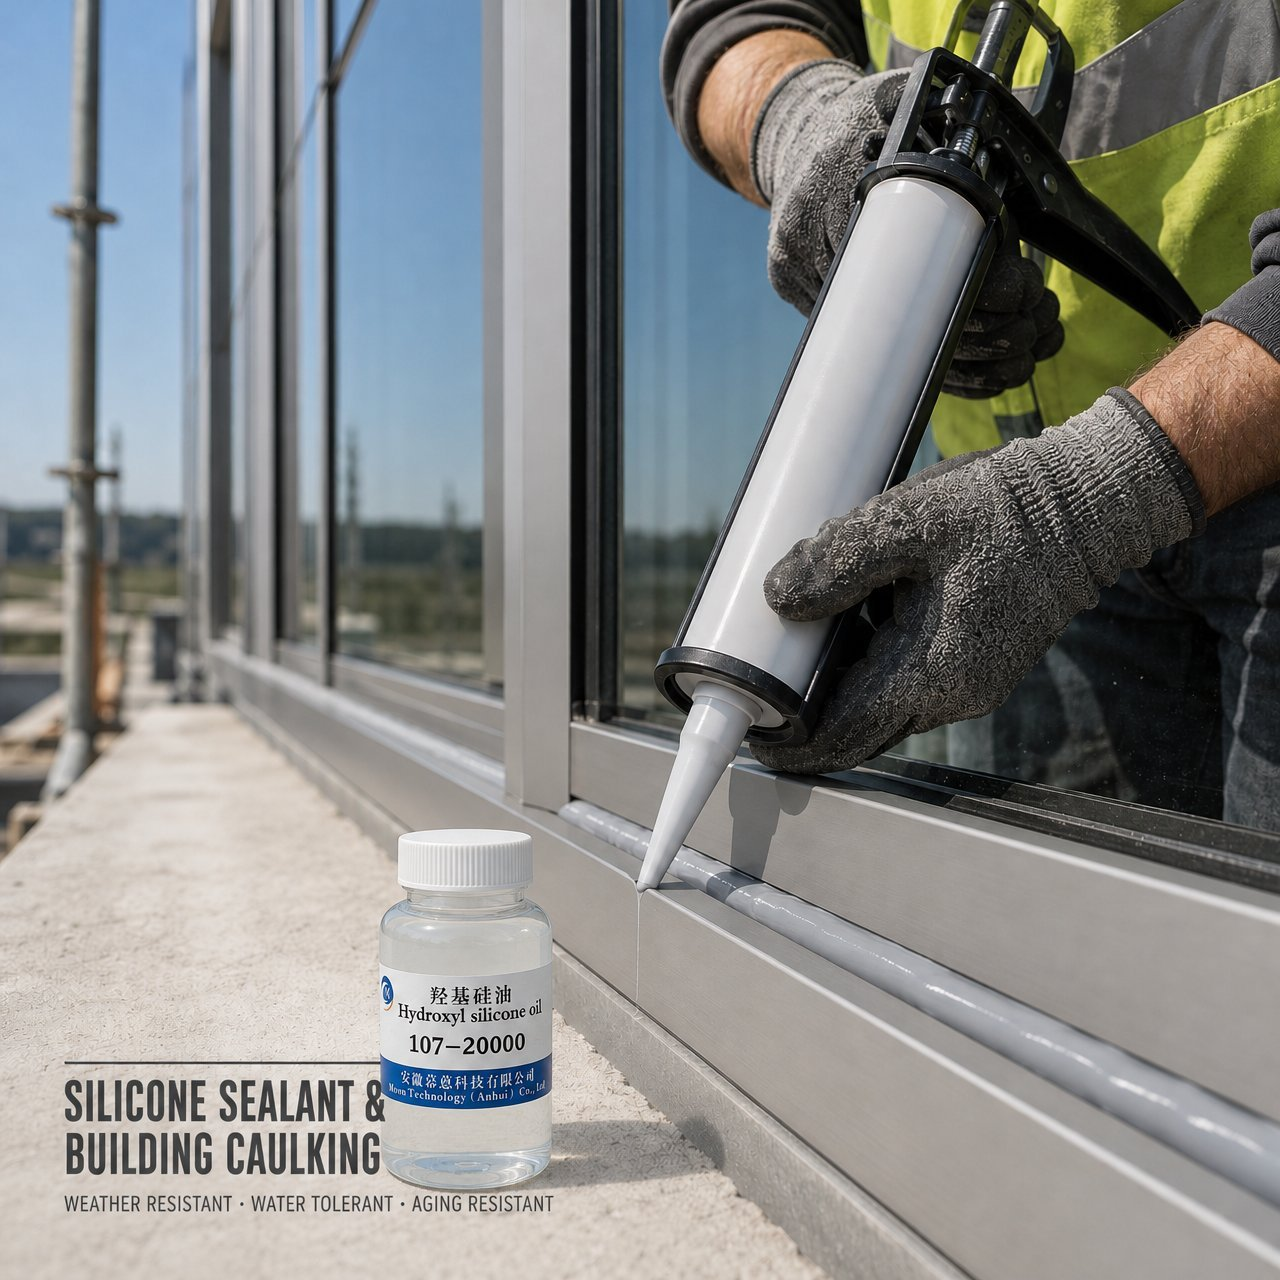
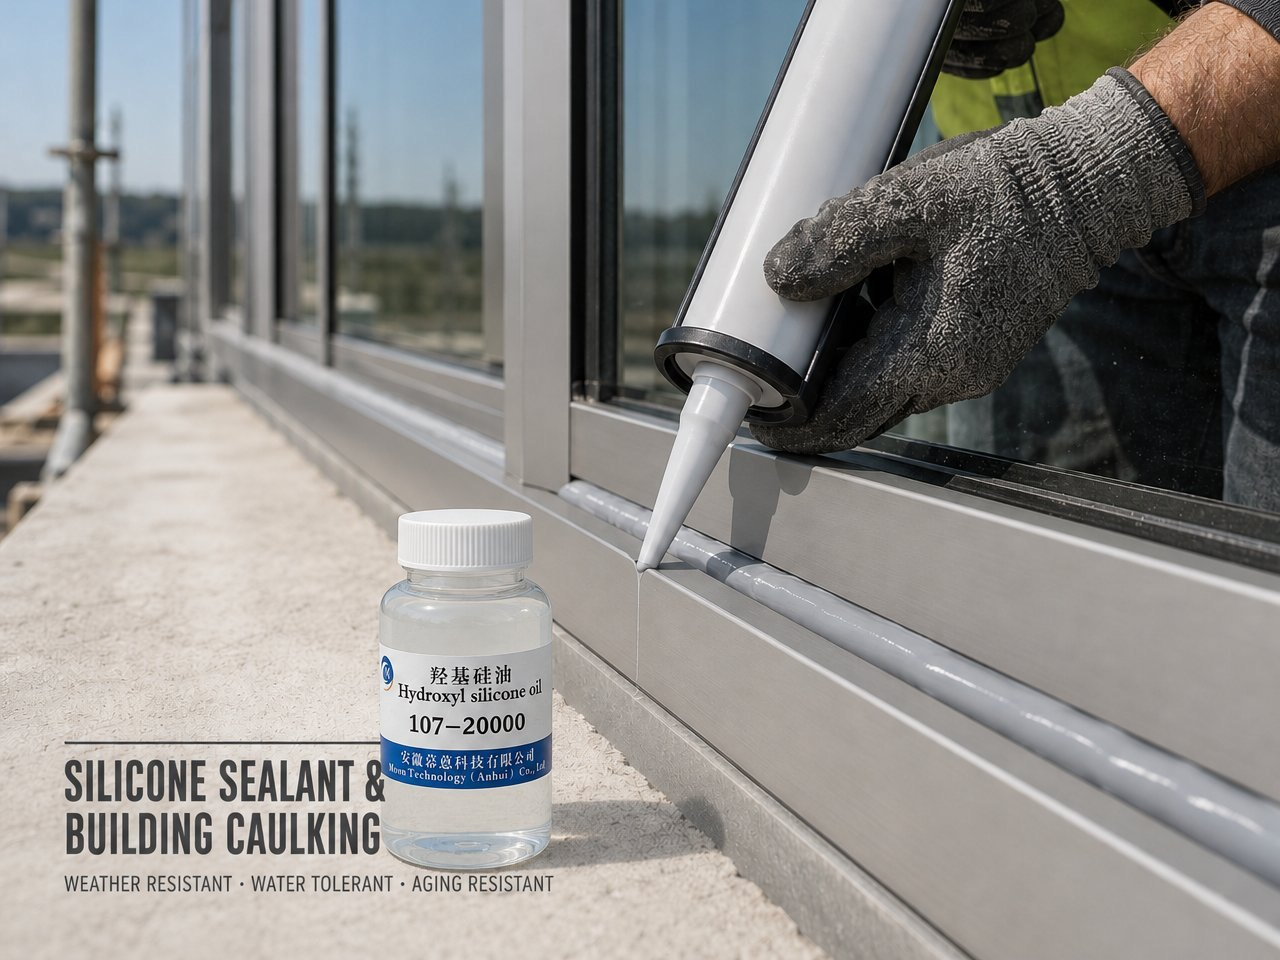
Re-crop 3 square article images to 4:3 landscape for uniform aspect ratio in silicone oil guide

diff --git a/articles/silicone-oil-201-107-vinyl-technical-guide.html b/articles/silicone-oil-201-107-vinyl-technical-guide.html
@@ -324,7 +324,7 @@
 
                 <div class="fig-grid">
                     <figure>
-                        <picture><source srcset="/images/so-201-textile.webp" type="image/webp"><img src="/images/so-201-textile.jpg" alt="MOON 201-1000cst dimethyl silicone oil for textile and leather finishing" loading="lazy" width="1280" height="1280"></picture>
+                        <picture><source srcset="/images/so-201-textile.webp" type="image/webp"><img src="/images/so-201-textile.jpg" alt="MOON 201-1000cst dimethyl silicone oil for textile and leather finishing" loading="lazy" width="1280" height="960"></picture>
                         <figcaption>Textile &amp; leather finishing — soft hand feel, water repellency</figcaption>
                     </figure>
                     <figure>
@@ -359,7 +359,7 @@
                 </ul>
 
                 <figure class="fig">
-                    <picture><source srcset="/images/so-107-sealant.webp" type="image/webp"><img src="/images/so-107-sealant.jpg" alt="MOON 107-20000 hydroxyl silicone oil for silicone sealant and building caulking" loading="lazy" width="1280" height="1280"></picture>
+                    <picture><source srcset="/images/so-107-sealant.webp" type="image/webp"><img src="/images/so-107-sealant.jpg" alt="MOON 107-20000 hydroxyl silicone oil for silicone sealant and building caulking" loading="lazy" width="1280" height="960"></picture>
                     <figcaption>107-20000 as the base polymer of silicone sealant &amp; building caulking</figcaption>
                 </figure>
 
@@ -389,7 +389,7 @@
                 </ul>
 
                 <figure class="fig">
-                    <picture><source srcset="/images/so-vinyl-potting.webp" type="image/webp"><img src="/images/so-vinyl-potting.jpg" alt="MOON V-20000cst vinyl silicone oil for LED and electronic potting" loading="lazy" width="1280" height="1280"></picture>
+                    <picture><source srcset="/images/so-vinyl-potting.webp" type="image/webp"><img src="/images/so-vinyl-potting.jpg" alt="MOON V-20000cst vinyl silicone oil for LED and electronic potting" loading="lazy" width="1280" height="960"></picture>
                     <figcaption>V-20000 in addition-cure LED &amp; electronics potting compounds</figcaption>
                 </figure>
 
